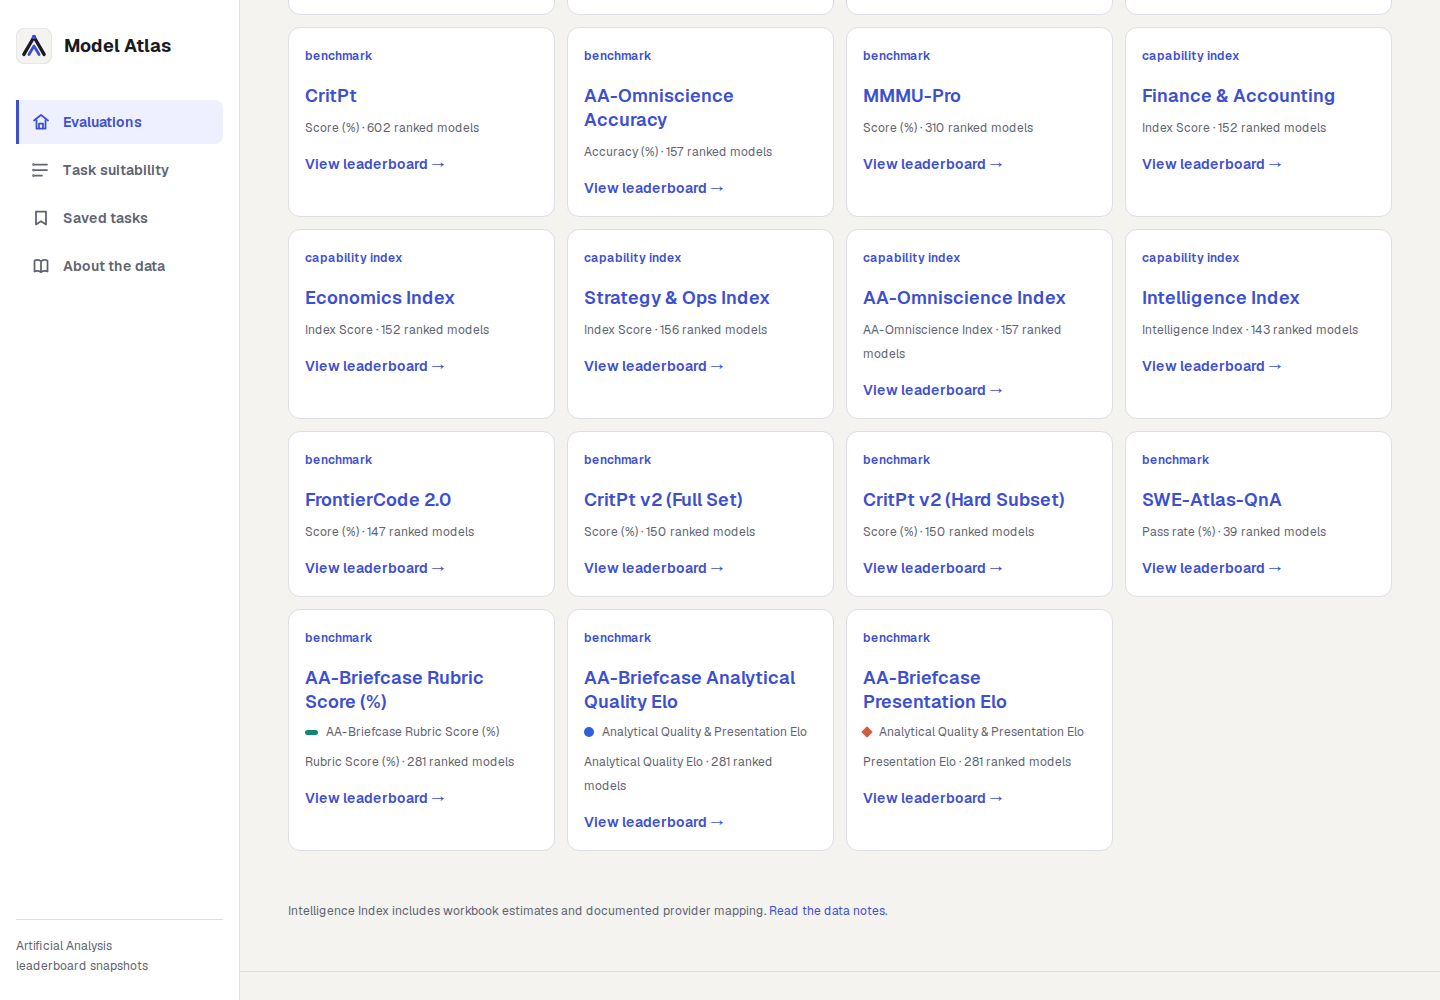
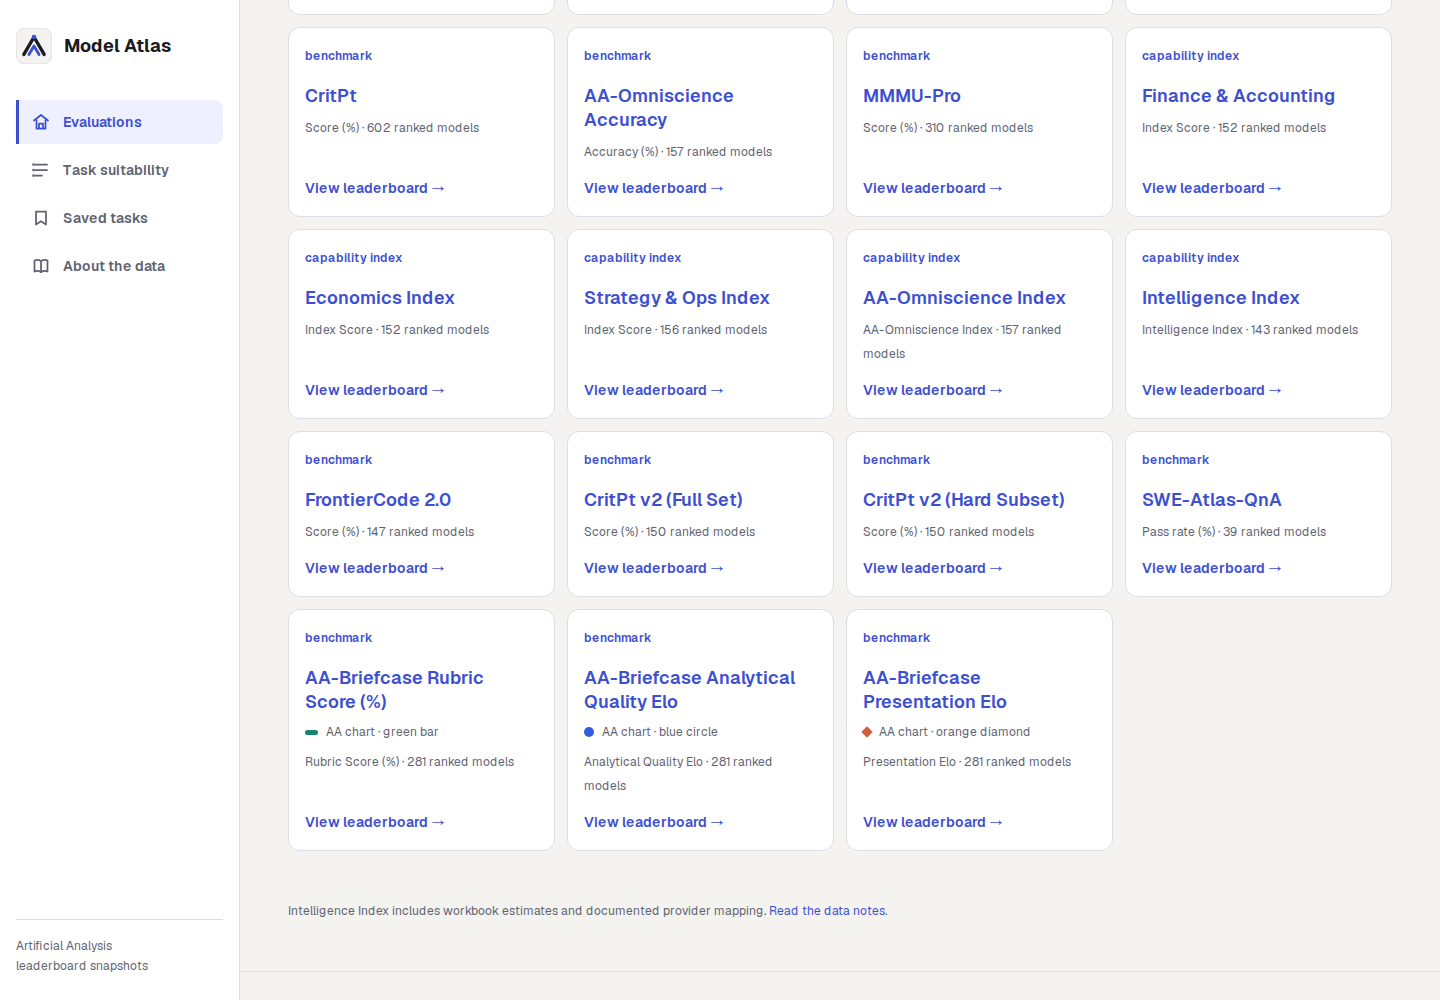
fix: polish leaderboard details from screenshot review

diff --git a/src/components/master-leaderboard.tsx b/src/components/master-leaderboard.tsx
@@ -23,7 +23,7 @@ function MasterModelSearch({value,onCommit}:{value:string;onCommit:(value:string
     const timer=window.setTimeout(()=>onCommit(next),300);
     return()=>window.clearTimeout(timer);
   },[draft,value,onCommit]);
-  return <div className="toolbar-model-search"><label className="text-caption text-secondary font-semibold md:sr-only" htmlFor="master-search">Search models</label><Input id="master-search" aria-describedby="master-search-help" value={draft} placeholder="Search model names…" onChange={event=>setDraft(event.target.value.slice(0,200))}/><HelperText id="master-search-help">Comma-separated: sol, haiku.</HelperText></div>;
+  return <div className="toolbar-model-search"><label className="text-caption text-secondary font-semibold md:sr-only" htmlFor="master-search">Search models</label><Input id="master-search" aria-describedby="master-search-help" value={draft} placeholder="Search model names…" onChange={event=>setDraft(event.target.value.slice(0,200))}/><HelperText id="master-search-help">Separate keywords with commas, e.g. sol, haiku.</HelperText></div>;
 }
 
 function speedValue(seconds:number|null|undefined,format:(seconds:number|null|undefined)=>string,unit?:string){
@@ -148,7 +148,7 @@ export default function MasterLeaderboard({rows,evaluations,costCapturedLabel,sp
       </div>
     </div>
     <p aria-live="polite">{sorted.length.toLocaleString()} {sorted.length===1?"model":"models"}{selectedProviders.length?` · ${providerSelectionLabel(selectedProviders)}`:""}{favoritesOnly?` · ${favorites.length} favorites saved in this browser`:""}<span className="master-sort-summary"> · Sorted by {sortLabel}{sortedEvaluation?" rank":""} {direction==="asc"?"↑":"↓"}</span>{unrankedCount>0&&<span> · {unrankedCount===sorted.length?`No ${sortLabel} ranks in these results.`:"Unranked models appear last."}</span>}</p>
-    <HelperText className="leaderboard-legend">Missing AA values show as “—” or “Not ranked”. Ranks can tie. Aggregate uses 9 of {orderedEvaluations.length} evaluations.</HelperText>
+    <HelperText className="leaderboard-legend">Missing AA values show as “—” or “Not ranked”. Ranks can tie. Aggregate uses 9 of the {orderedEvaluations.length} listed evaluations.</HelperText>
     {favoriteNotice&&<Alert role="status" live="polite" tone="error">{favoriteNotice}</Alert>}
     <TableScroll showOverflowCue earlierColumnsLabel="Columns behind pinned fields" className="master-table-view" label="Master leaderboard, scroll horizontally for evaluations"><Table><caption className="sr-only">Model ranks, aggregate rank scores, Intelligence Index task costs and speeds across every evaluation</caption><thead><tr>{header("model","Model","master-model")}{header("provider","Provider","master-provider")}{metricHeader("intelligence-index-cost","master-cost","Cost per Intelligence Index task",speedDetail("USD",costCapturedLabel),`Artificial Analysis model profile values · captured ${costCapturedLabel}`)}{metricHeader("time-per-task","master-time","Time per Task",speedDetail("Minutes",speedCapturedLabel),`Average time per Intelligence Index task from Artificial Analysis · captured ${speedCapturedLabel}`)}{metricHeader("first-answer","master-first","First Answer",speedDetail("Seconds",speedCapturedLabel),`Time to first answer token on the creator's API, from Artificial Analysis · captured ${speedCapturedLabel}`)}{metricHeader("aggregate-score","master-aggregate","Aggregate Score","Average rank · lower is better","Arithmetic mean of available source ranks across the nine selected dimensions; lower is better")}{orderedEvaluations.map(e=>{const label=masterEvaluationLabel(e);return <th key={e.id} scope="col" className="numeric" data-evaluation={e.id} aria-sort={sort===e.id?(direction==="asc"?"ascending":"descending"):"none"}><Button variant="quiet" size="compact" title={`Original source rank · captured ${capturedDate(e.captured_at)}`} onClick={()=>update({ms:e.id,md:sort===e.id&&direction==="asc"?"desc":"asc"})}>{label}{"\u00a0"}{sort===e.id?(direction==="asc"?"↑":"↓"):"↕"}<small>Rank · {capturedDate(e.captured_at)}</small></Button></th>;})}</tr></thead><tbody>{pageRows.map(r=>{const aggregate=averageMasterRank(r);return <tr key={r.model_id}><td className="master-model"><IconButton className="favorite-star" size="compact" type="button" aria-pressed={favorites.includes(r.identity_key)} aria-label={`${favorites.includes(r.identity_key)?"Remove":"Add"} ${r.model} to favorites`} title={`${favorites.includes(r.identity_key)?"Remove from":"Add to"} favorites`} onClick={()=>toggleFavorite(r.identity_key)}>{favorites.includes(r.identity_key)?"★":"☆"}</IconButton> <Link href={`/?mq=${encodeURIComponent(r.model)}&mp=${encodeURIComponent(r.provider)}#master-leaderboard`}>{r.model}</Link></td><td className="master-provider">{r.provider}</td><td className="numeric master-cost">{r.intelligence_index_cost?<a href={r.intelligence_index_cost.url} target="_blank" rel="noreferrer" title={`Artificial Analysis profile for ${r.intelligence_index_cost.model} · cost captured ${r.intelligence_index_cost.profile_captured_at}`}>{costFormatter.format(r.intelligence_index_cost.cost_usd)}</a>:<span className="muted">—</span>}</td><td className="numeric master-time">{speedValue(r.speed?.time_per_task_s,formatTimePerTask)}</td><td className="numeric master-first">{speedValue(r.speed?.first_answer_s,formatFirstAnswer)}</td><td className="numeric master-aggregate">{aggregate?<span title={`Average of ${aggregate.count} of 9 available source ranks`} aria-label={`${aggregate.score.toFixed(1)} average rank based on ${aggregate.count} of 9 dimensions`}>{aggregate.score.toFixed(1)}<small>{aggregate.count}/9 dims</small></span>:<span className="muted" title="No source rank in any of the nine aggregate dimensions">—</span>}</td>{orderedEvaluations.map(e=>{const c=r.cells[e.id];const label=masterEvaluationLabel(e);return <td key={e.id} className="numeric">{c?<Link className="source-rank" href={c.href} title={c.entry.scoring_status??"Original source rank"} aria-label={`${r.model}, ${label}, original source rank ${c.entry.source_rank}`}>#{c.entry.source_rank}</Link>:<MissingEvaluationRank evaluationId={e.id}/>}</td>;})}</tr>;})}{!sorted.length&&<tr><td className="empty" colSpan={orderedEvaluations.length+6}>No models match these filters.</td></tr>}</tbody></Table></TableScroll>
     <ul className="master-cards" aria-label="Master leaderboard models">

diff --git a/src/components/leaderboard.tsx b/src/components/leaderboard.tsx
@@ -12,6 +12,10 @@ const dateValue=(label:string|null)=>{if(!label)return null;const date=Date.pars
 const costFormatter=new Intl.NumberFormat("en-US",{style:"currency",currency:"USD",minimumFractionDigits:2,maximumFractionDigits:2});
 const numericColumns=["source_rank","score_value","cost_usd","time_per_task","first_answer"];
 const speedColumns=["time_per_task","first_answer"];
+const columnDetails:Record<string,[unit:string,date:string]>={
+  time_per_task:["Minutes",modelSpeedCaptureLabel],
+  first_answer:["Seconds",modelSpeedCaptureLabel],
+};
 const columnOrder=["model","score_value","cost_usd","time_per_task","first_answer","source_rank","provider","scoring_status","confidence_interval_display","release_date_label"];
 const columnWidths:Record<string,number>={model:240,score_value:120,cost_usd:176,time_per_task:208,first_answer:140,source_rank:72,provider:112,scoring_status:160,confidence_interval_display:160,release_date_label:112};
 const columnId=(column:ColumnDef<Entry>)=>column.id??("accessorKey" in column?String(column.accessorKey):"");
@@ -49,7 +53,7 @@ function LeaderboardModelSearch({value,onCommit}:{value:string;onCommit:(value:s
   return <div className="toolbar-model-search"><label className="text-caption text-secondary font-semibold md:sr-only" htmlFor="model-search">Search models</label><Input id="model-search" aria-describedby="model-search-help" placeholder="Search model names…" value={draft} onChange={event=>setDraft(event.target.value.slice(0,200))}/><HelperText id="model-search-help">Separate keywords with commas, e.g. sol, haiku.</HelperText></div>;
 }
 
-export default function Leaderboard({entries,evaluation,taskCosts,speeds}:{entries:Entry[];evaluation:Evaluation;taskCosts:Record<string,IntelligenceIndexTaskCost>;speeds:Record<string,ModelSpeed>}){
+export default function Leaderboard({entries,evaluation,taskCosts,speeds,costCapturedLabel}:{entries:Entry[];evaluation:Evaluation;taskCosts:Record<string,IntelligenceIndexTaskCost>;speeds:Record<string,ModelSpeed>;costCapturedLabel:string}){
   const router=useRouter(),pathname=usePathname(),params=useSearchParams();
   const state=parseQueryParams(params);
   const update=(values:Record<string,string|number|string[]>,history:"push"|"replace"="replace")=>{const next=new URLSearchParams(params.toString());next.set("page","1");for(const [key,value]of Object.entries(values)){next.delete(key);if(Array.isArray(value))value.forEach(item=>{if(item)next.append(key,item);});else if(value!=="")next.set(key,String(value));}const href=`${pathname}?${next.toString()}`;if(history==="push")router.push(href,{scroll:false});else router.replace(href,{scroll:false});};
@@ -96,7 +100,7 @@ export default function Leaderboard({entries,evaluation,taskCosts,speeds}:{entri
       <ProviderMultiSelect id="provider" label="Provider" providers={providers} selected={state.provider} onChange={selected=>update({provider:selected},"push")}/>
       <Button size="compact" variant="quiet" onClick={()=>router.replace(pathname,{scroll:false})}>Clear filters</Button>
     </div>
-    <p aria-live="polite">{sorted.length.toLocaleString()} results{state.provider.length?` · ${providerSelectionLabel(state.provider)}`:""}</p>
+    <p aria-live="polite">{sorted.length.toLocaleString()} {sorted.length===1?"result":"results"}{state.provider.length?` · ${providerSelectionLabel(state.provider)}`:""}</p>
     <HelperText className="leaderboard-legend">Missing AA values show as “—”.{evaluation.has_scoring_status?" Scoring status appears only when AA provides it.":""}</HelperText>
     <div className="evaluation-mobile-sort">
       <label htmlFor="evaluation-sort">Sort by</label>
@@ -112,11 +116,12 @@ export default function Leaderboard({entries,evaluation,taskCosts,speeds}:{entri
           <colgroup>{columns.map(column=><col key={columnId(column)} style={{width:columnWidths[columnId(column)]}}/>)}</colgroup>
           <thead>{table.getHeaderGroups().map(group=><tr key={group.id}>{group.headers.map(header=>{
             const heading=flexRender(header.column.columnDef.header,header.getContext());
+            const detail=header.id==="cost_usd"?["USD",costCapturedLabel]:columnDetails[header.id];
             if(header.id==="scoring_status")return <th key={header.id} scope="col" className="evaluation-static-heading">{heading}</th>;
-            return <th key={header.id} scope="col" className={[numericColumns.includes(header.id)?"numeric":"",speedColumns.includes(header.id)?"speed-column":"",header.id==="model"?"model":""].filter(Boolean).join(" ")} aria-sort={allowedSort===header.id?(state.direction==="asc"?"ascending":"descending"):"none"}>
+            return <th key={header.id} scope="col" data-column={header.id} className={[numericColumns.includes(header.id)?"numeric":"",speedColumns.includes(header.id)?"speed-column":"",header.id==="model"?"model":""].filter(Boolean).join(" ")} aria-sort={allowedSort===header.id?(state.direction==="asc"?"ascending":"descending"):"none"}>
               <Button variant="quiet" size="compact" onClick={()=>update({sort:header.id,direction:allowedSort===header.id&&state.direction==="asc"?"desc":"asc"})}>
                 <span>{heading}{"\u00a0"}{allowedSort===header.id?(state.direction==="asc"?"↑":"↓"):"↕"}</span>
-                {speedColumns.includes(header.id)&&<small><span>{header.id==="time_per_task"?"Minutes":"Seconds"} · AA</span><span>{modelSpeedCaptureLabel}</span></small>}
+                {detail&&<small><span>{detail[0]} · AA</span><span>{detail[1]}</span></small>}
               </Button>
             </th>;
           })}</tr>)}</thead>

diff --git a/src/app/leaderboards/[evaluationSlug]/page.tsx b/src/app/leaderboards/[evaluationSlug]/page.tsx
@@ -55,14 +55,16 @@ export default async function Page({ params }: { params: Promise<{ evaluationSlu
       : "Source: supplied workbook"}</p>
     <p>Artificial Analysis (AA) timings · {modelSpeedCaptureLabel}</p>
     </PageHeader>
-    <Leaderboard entries={entries} evaluation={evaluation} taskCosts={taskCosts} speeds={speeds} />
+    <Leaderboard entries={entries} evaluation={evaluation} taskCosts={taskCosts} speeds={speeds} costCapturedLabel={intelligenceIndexCostCaptureLabel} />
     {evaluation.metric_group && <ComponentIndexNav active={evaluation} evaluations={evaluations} />}
     <details className="evaluation-notes panel">
       <summary>Sources and timing notes</summary>
-      <p>{evaluation.source_title}</p>
-      <p>Cost per Intelligence Index task uses Artificial Analysis profile values captured {intelligenceIndexCostCaptureLabel}, weighted across the Index evaluations. Workbook cost values mentioned in the source notes below are evaluation-specific.</p>
-      <p>{evaluationTimePerTaskLabel(evaluation.id)} (minutes) and First Answer (seconds to the first answer token on the creator’s API) use Artificial Analysis values captured {modelSpeedCaptureLabel}; dashes mean missing values and sort last.</p>
-      {evaluation.notes && <p>{evaluation.notes}</p>}
+      <div className="evaluation-notes__body">
+        <strong>{evaluation.source_title}</strong>
+        <p>Cost per Intelligence Index task uses Artificial Analysis profile values captured {intelligenceIndexCostCaptureLabel}, weighted across the Index evaluations.</p>
+        <p>{evaluationTimePerTaskLabel(evaluation.id)} (minutes) and First Answer (seconds to the first answer token on the creator’s API) use Artificial Analysis values captured {modelSpeedCaptureLabel}. Dashes mean missing values and sort last.</p>
+        {evaluation.notes && <p>{evaluation.notes}</p>}
+      </div>
     </details>
   </>;
 }

diff --git a/src/app/page.tsx b/src/app/page.tsx
@@ -9,6 +9,8 @@ import styles from "./home.module.css";
 
 export const dynamic="force-dynamic";
 
+const chartMarkerLabels={bar:"AA chart · green bar",circle:"AA chart · blue circle",diamond:"AA chart · orange diamond"};
+
 export default async function Home(){
   const {evaluations,rows,intelligenceIndexCostCaptureLabel}=await getMasterDataset();
   return <>
@@ -36,7 +38,7 @@ export default async function Home(){
             {evaluations.map(e=><Card as="article" className="evaluation-card" key={e.id}>
               <div className="eyebrow">{e.category.replaceAll("_"," ")}</div>
               <h3><Link href={`/leaderboards/${e.slug}`}>{e.display_name}</Link></h3>
-              {e.metric_group && <div className="metric-tag"><span className={`metric-indicator metric-indicator--${e.metric_indicator}`} style={{backgroundColor:e.metric_color}} aria-hidden="true"/><span>{e.source_tab}</span></div>}
+              {e.metric_group && e.metric_indicator && <div className="metric-tag"><span className={`metric-indicator metric-indicator--${e.metric_indicator}`} style={{backgroundColor:e.metric_color}} aria-hidden="true"/><span>{chartMarkerLabels[e.metric_indicator]}</span></div>}
               <p className="evaluation-meta">{e.metric_label} · {e.row_count.toLocaleString()} ranked models</p>
               <Link className="open" href={`/leaderboards/${e.slug}`}>View leaderboard →</Link>
             </Card>)}

diff --git a/src/app/globals.css b/src/app/globals.css
@@ -1928,7 +1928,7 @@ a.ui-button:hover {
   white-space: normal;
 }
 
-.ui-table th.speed-column small {
+.ui-table th:is(.speed-column, [data-column="cost_usd"]) small {
   display: block;
   margin-top: var(--space-1);
   color: var(--text-secondary);
@@ -1936,9 +1936,17 @@ a.ui-button:hover {
   font-weight: var(--type-weight-regular);
 }
 
-.ui-table th.speed-column small > span {
+.ui-table th:is(.speed-column, [data-column="cost_usd"]) small > span {
   display: block;
   white-space: nowrap;
+}
+
+.evaluation-table th[data-column="cost_usd"] small > span:last-child {
+  white-space: normal;
+}
+
+.evaluation-table th[data-column="score_value"] > button {
+  padding-inline: var(--space-2);
 }
 
 .evaluation-page-header {
@@ -1997,6 +2005,16 @@ a.ui-button:hover {
 .evaluation-notes summary {
   cursor: pointer;
   font-weight: var(--type-weight-semibold);
+}
+
+.evaluation-notes__body {
+  display: grid;
+  gap: var(--space-2);
+  margin-top: var(--space-2);
+}
+
+.evaluation-notes__body p {
+  margin: 0;
 }
 
 @media (max-width: 767px) {

diff --git a/src/lib/evaluation-display.ts b/src/lib/evaluation-display.ts
@@ -4,6 +4,6 @@ export function evaluationScoreDisplay(evaluation: Pick<Evaluation, "id">, entry
   // This captured benchmark stores fractions even though its source label is a percentage.
   // Format at the view boundary, preserving the captured values and their sort order.
   if (evaluation.id === "terminal-bench-4-0") return `${(entry.score_value * 100).toFixed(2)}%`;
-  if (evaluation.id === "intelligence-index") return entry.score_value.toFixed(4);
+  if (evaluation.id === "intelligence-index" || evaluation.id === "swe-atlas-qna-aa") return entry.score_value.toFixed(4);
   return entry.score_display;
 }

diff --git a/tests/evaluation-display.test.ts b/tests/evaluation-display.test.ts
@@ -26,3 +26,9 @@ test("Intelligence Index scores align at four decimals without changing stored v
     assert.equal(entry.score_display, captured);
   }
 });
+
+test("SWE-Atlas QnA pass rates keep four decimals, including trailing zeros", () => {
+  for (const [value, expected] of [[61.8279569, "61.8280"], [58.8709677, "58.8710"], [33.8709677, "33.8710"], [0, "0.0000"], [100, "100.0000"]] as const) {
+    assert.equal(evaluationScoreDisplay({ id: "swe-atlas-qna-aa" }, { score_value: value, score_display: String(value) }), expected);
+  }
+});

diff --git a/src/app/home.module.css b/src/app/home.module.css
@@ -18,7 +18,7 @@
 }
 
 .evaluationSection :global(.open) {
-  margin-top: var(--space-1);
+  padding-top: var(--space-1);
   font-size: var(--font-size-ui);
 }
 

diff --git a/docs/approved-looks.md b/docs/approved-looks.md
@@ -6,3 +6,4 @@
 - Evaluation cost and timing values are blue links to Artificial Analysis model profiles. Master timing values are plain text.
 - Tied AA scores keep their shared source rank, so rank links can show the same number for different models.
 - An evaluation phone capture can end partway through the first result card. Its lower metric tiles continue below the viewport.
+- Intelligence Index scores intentionally use four decimal places with tabular figures, as recorded in the November screenshot review.
